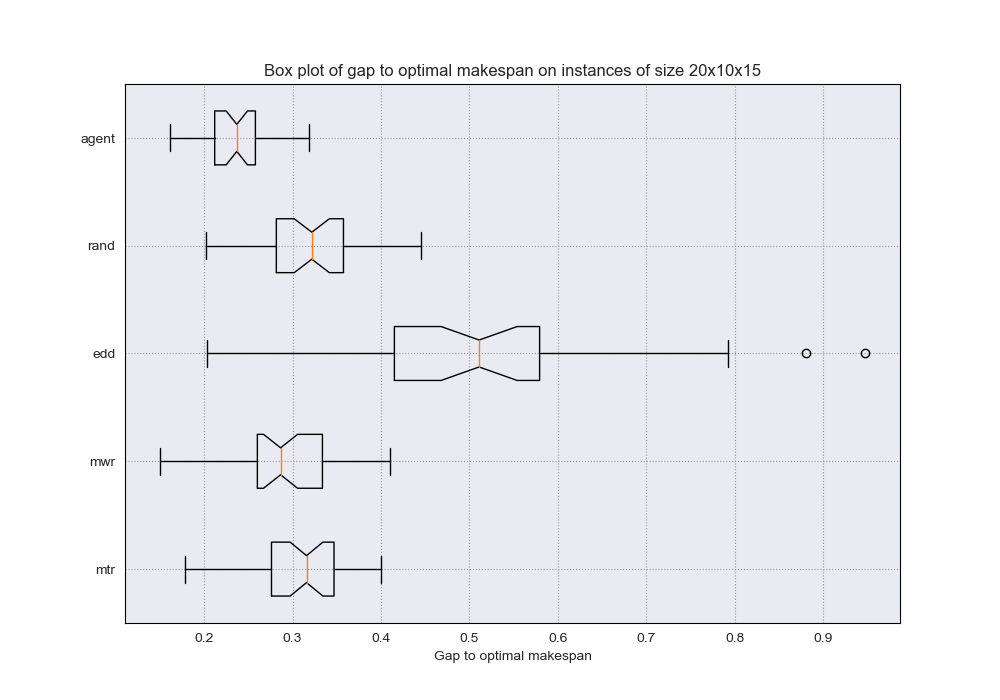
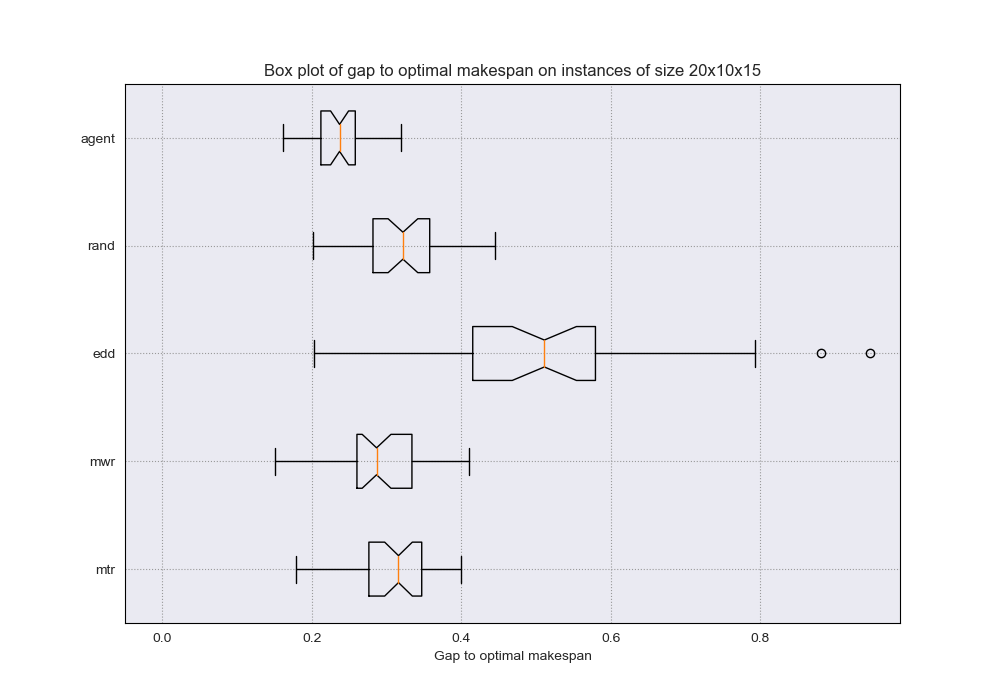
Change lower bound of x-axis gap to top to -0.05

diff --git a/boxplot_results.py b/boxplot_results.py
@@ -77,6 +77,7 @@ def boxplot_gap_to_opt(results_rules, results_agent, opt_results, rule_set, test
     ax.boxplot(data, notch=True, vert=False)
     labels = rule_set + ['agent']
     ax.set_yticklabels(labels)
+    ax.set_xlim(left=-0.05)
     plt.xlabel("Gap to optimal makespan")
     if test:
         plt.title(f"Box plot of gap to optimal makespan on 1000 instances of size {j}x{m}x{t}")
@@ -92,12 +93,12 @@ def boxplot_gap_to_opt(results_rules, results_agent, opt_results, rule_set, test
 
 
 if __name__ == '__main__':
-    show = True
+    show = False
     save = True
 
-    n_j = 10
+    n_j = 30
     n_m = 10
-    n_t = 5
+    n_t = 20
     low = 1
     high = 99
     lt_low = 1

diff --git a/test_dispatching_rules.py b/test_dispatching_rules.py
@@ -8,8 +8,8 @@ def test_dd_tightness(data_set, n_j, n_m, n_t):
     env = SJSSP(n_j=n_j, n_m=n_m, n_t=n_t)
 
     tardiness_per_c = {}
-    tightness = 1.0
-    while tightness <= 2.0:
+    tightness = 2.0
+    while True:
         tightness = round(tightness, 1)
         total_num_jobs = 0
         total_tardy_jobs = 0
